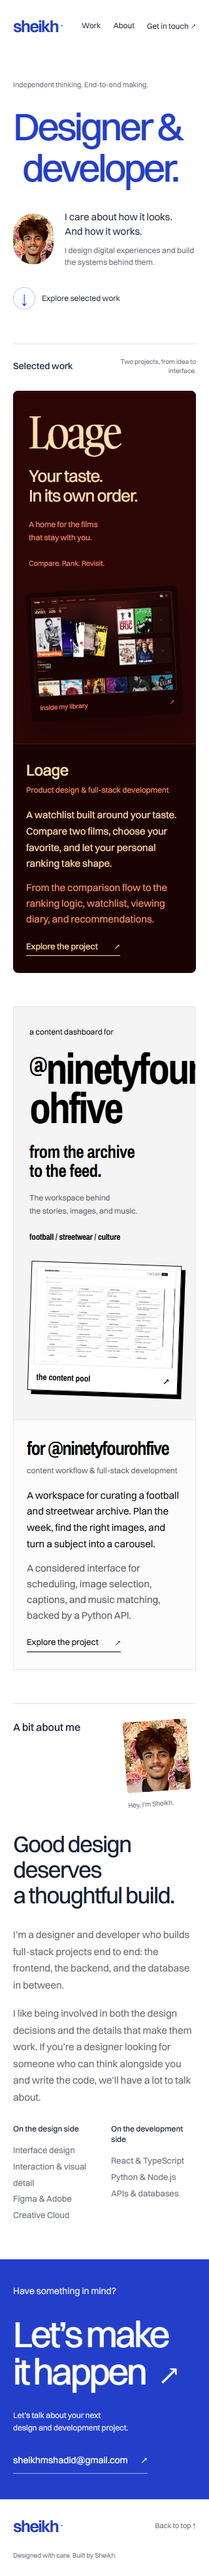
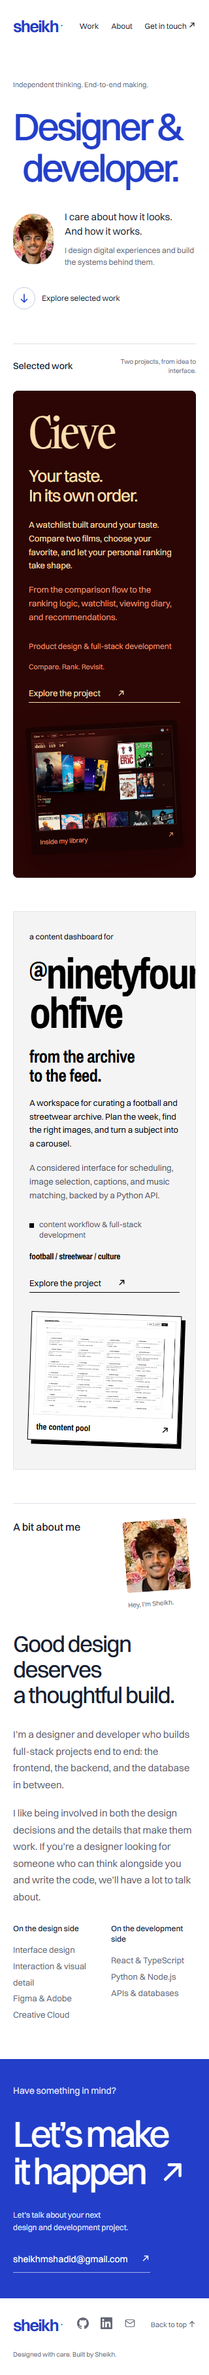
Rename Loage to Cieve and replace its screenshot with a fresh dark-mode capture

Changed region(s): [[0.0, 0.0, 1.0, 0.9981], [0.7188, 0.9669, 0.9375, 0.9981], [0.0625, 0.6238, 0.0938, 0.655]]

diff --git a/projects.css b/projects.css
@@ -1,21 +1,21 @@
 /* Project styles stay inside their respective cards. */
 @font-face{font-family:'Archivo Narrow';src:url('assets/ArchivoNarrow-Bold.ttf') format('truetype');font-weight:700;font-display:swap}
 @font-face{font-family:Gambarino;src:url('assets/Gambarino-Regular.woff2') format('woff2');font-weight:400;font-display:swap}
-.project.loage-project{--project-ground:#1a0403;--project-surface:#2b0605;--project-ink:#fedeae;--project-muted:#e99672;--project-border:rgb(254 222 174 / .12);background:var(--project-ground);color:var(--project-ink);border-radius:8px;overflow:hidden}
+.project.cieve-project{--project-ground:#1a0403;--project-surface:#2b0605;--project-ink:#fedeae;--project-muted:#e99672;--project-border:rgb(254 222 174 / .12);background:var(--project-ground);color:var(--project-ink);border-radius:8px;overflow:hidden}
 .project.studio-project{--project-ground:#fcfcfc;--project-surface:#fff;--project-ink:#000;--project-muted:#52525b;--project-border:#e4e4e7;background:var(--project-ground);color:var(--project-ink);border:1px solid var(--project-border);border-radius:0;overflow:hidden}
 .project-stage{display:grid;grid-template-columns:38% 62%;align-items:start;gap:32px;min-height:580px;padding:62px 48px;overflow:hidden}
-.loage-stage{background:#2b0605}
+.cieve-stage{background:#2b0605}
 .project-identity{position:relative;z-index:1;align-self:stretch;display:flex;flex-direction:column}
-.loage-wordmark{font-family:Gambarino,Georgia,serif;font-size:94px;font-weight:400;line-height:1;letter-spacing:-6px;margin:0 0 27px}
+.cieve-wordmark{font-family:Gambarino,Georgia,serif;font-size:94px;font-weight:400;line-height:1;letter-spacing:-6px;margin:0 0 27px}
 .project-statement{font-size:29px;font-weight:450;letter-spacing:-1px;line-height:1.18;margin:0 0 18px}
 .identity-description{font-size:15px;line-height:1.6;color:var(--project-ink);margin:0 0 14px;max-width:320px}
 .identity-footnote{font-size:11px;color:var(--project-muted);margin-top:20px}
 .project .project-shot{display:block;width:100%;position:relative;align-self:center;transition:transform .25s ease}
 .project .project-shot img{display:block;width:100%;height:auto;object-fit:contain;border:1px solid var(--project-border)}
-.loage-project .project-shot{transform:rotate(-3deg);border-radius:6px;background:#1a0403;box-shadow:0 22px 42px #1a040380;padding:8px}
-.loage-project .project-shot img{border-radius:3px}
+.cieve-project .project-shot{transform:rotate(-3deg);border-radius:6px;background:#1a0403;box-shadow:0 22px 42px #1a040380;padding:8px}
+.cieve-project .project-shot img{border-radius:3px}
 .shot-caption{display:flex;align-items:center;justify-content:space-between;gap:15px;font-size:11px;padding:12px 10px 6px;color:var(--project-muted)}
-.loage-project .project-shot:hover{transform:rotate(-1deg) translateY(-4px);text-decoration:none}
+.cieve-project .project-shot:hover{transform:rotate(-1deg) translateY(-4px);text-decoration:none}
 .studio-stage{background:#f4f4f5;grid-template-columns:36% 64%;padding-block:60px;gap:24px}
 .studio-intro{font-size:12px;margin:0 0 24px}
 .studio-wordmark{font-family:'Archivo Narrow','Arial Narrow',sans-serif;font-size:76px;font-weight:700;letter-spacing:-4px;line-height:.91;margin:0 0 30px}
@@ -30,6 +30,6 @@
 .project .text-link{border-color:var(--project-ink)}
 .studio-project .project-kind{text-transform:lowercase;position:relative;padding-left:15px}
 .studio-project .project-kind::before{content:"";position:absolute;left:0;top:6px;width:7px;height:7px;background:#000}
-@media(max-width:1050px){.project-stage{min-height:470px;padding:38px 30px;gap:26px;grid-template-columns:38% 62%}.loage-wordmark{font-size:75px}.project-statement{font-size:24px}.studio-wordmark{font-size:clamp(44px,5.7vw,60px);letter-spacing:-2px}.studio-project .project-statement{font-size:25px}.identity-description{font-size:13px}}
-@media(max-width:700px){.project-stage{display:flex;flex-direction:column;align-items:stretch;gap:32px;padding:30px 24px 40px;min-height:0}.loage-wordmark{font-size:66px;margin-bottom:19px;letter-spacing:-4px}.project-statement{font-size:26px}.identity-description{font-size:13px;max-width:none}.identity-footnote{margin-top:16px}.project .project-shot{width:100%;align-self:center}.studio-wordmark{font-size:66px;margin-bottom:22px;letter-spacing:-3px}.studio-intro{margin-bottom:18px}.studio-project .project-statement{font-size:27px}.studio-project .project-shot{box-shadow:6px 6px 0 #000}.shot-caption{font-size:10px;padding:10px 5px 4px}}
+@media(max-width:1050px){.project-stage{min-height:470px;padding:38px 30px;gap:26px;grid-template-columns:38% 62%}.cieve-wordmark{font-size:75px}.project-statement{font-size:24px}.studio-wordmark{font-size:clamp(44px,5.7vw,60px);letter-spacing:-2px}.studio-project .project-statement{font-size:25px}.identity-description{font-size:13px}}
+@media(max-width:700px){.project-stage{display:flex;flex-direction:column;align-items:stretch;gap:32px;padding:30px 24px 40px;min-height:0}.cieve-wordmark{font-size:66px;margin-bottom:19px;letter-spacing:-4px}.project-statement{font-size:26px}.identity-description{font-size:13px;max-width:none}.identity-footnote{margin-top:16px}.project .project-shot{width:100%;align-self:center}.studio-wordmark{font-size:66px;margin-bottom:22px;letter-spacing:-3px}.studio-intro{margin-bottom:18px}.studio-project .project-statement{font-size:27px}.studio-project .project-shot{box-shadow:6px 6px 0 #000}.shot-caption{font-size:10px;padding:10px 5px 4px}}
 @media(prefers-reduced-motion:reduce){.project .project-shot{transition:none}}

diff --git a/index.html b/index.html
@@ -3,7 +3,7 @@
 <head>
   <meta charset="UTF-8">
   <meta name="viewport" content="width=device-width, initial-scale=1">
-  <meta name="description" content="Sheikh is a designer and developer building thoughtful digital experiences from interface to implementation. Explore Loage and a content studio for @ninetyfourohfive.">
+  <meta name="description" content="Sheikh is a designer and developer building thoughtful digital experiences from interface to implementation. Explore Cieve and a content studio for @ninetyfourohfive.">
   <meta name="theme-color" content="#233fc9">
   <meta name="contentType" content="Landing">
   <title>Sheikh — Designer & Developer</title>
@@ -29,10 +29,10 @@
     </section>
     <section id="work" class="work wrap" aria-labelledby="work-title">
       <div class="section-heading"><h2 id="work-title">Selected work</h2><span>Two projects, from idea to interface.</span></div>
-      <article class="project loage-project">
-        <div class="project-stage loage-stage">
-          <div class="project-identity"><h3 class="loage-wordmark">Loage</h3><p class="project-statement">Your taste.<br>In its own order.</p><p class="identity-description">A watchlist built around your taste. Compare two films, choose your favorite, and let your personal ranking take shape.</p><p class="project-detail">From the comparison flow to the ranking logic, watchlist, viewing diary, and recommendations.</p><p class="project-kind">Product design &amp; full-stack development</p><span class="identity-footnote">Compare. Rank. Revisit.</span><a class="text-link" href="https://github.com/sheikhmshadid/loage" target="_blank" rel="noopener noreferrer">Explore the project <span aria-hidden="true"><svg width="1em" height="1em" viewBox="0 0 16 16" fill="none" focusable="false" style="display:inline-block;vertical-align:-0.08em"><path d="M4 12 12 4M6 4h6v6" stroke="currentColor" stroke-width="1.6" stroke-linecap="round" stroke-linejoin="round"/></svg></span></a></div>
-          <a class="project-shot" href="assets/loage-screenshot.png" target="_blank" rel="noopener" aria-label="Open full-size Loage screenshot"><img src="assets/loage-screenshot.png" alt="Loage running locally with Sheikh’s library, ranked films, watchlist, and recommendations" width="1440" height="1000" loading="lazy"><span class="shot-caption">Inside my library <span aria-hidden="true"><svg width="1em" height="1em" viewBox="0 0 16 16" fill="none" focusable="false" style="display:inline-block;vertical-align:-0.08em"><path d="M4 12 12 4M6 4h6v6" stroke="currentColor" stroke-width="1.6" stroke-linecap="round" stroke-linejoin="round"/></svg></span></span></a>
+      <article class="project cieve-project">
+        <div class="project-stage cieve-stage">
+          <div class="project-identity"><h3 class="cieve-wordmark">Cieve</h3><p class="project-statement">Your taste.<br>In its own order.</p><p class="identity-description">A watchlist built around your taste. Compare two films, choose your favorite, and let your personal ranking take shape.</p><p class="project-detail">From the comparison flow to the ranking logic, watchlist, viewing diary, and recommendations.</p><p class="project-kind">Product design &amp; full-stack development</p><span class="identity-footnote">Compare. Rank. Revisit.</span><a class="text-link" href="https://github.com/sheikhmshadid/cieve" target="_blank" rel="noopener noreferrer">Explore the project <span aria-hidden="true"><svg width="1em" height="1em" viewBox="0 0 16 16" fill="none" focusable="false" style="display:inline-block;vertical-align:-0.08em"><path d="M4 12 12 4M6 4h6v6" stroke="currentColor" stroke-width="1.6" stroke-linecap="round" stroke-linejoin="round"/></svg></span></a></div>
+          <a class="project-shot" href="assets/cieve-screenshot.png" target="_blank" rel="noopener" aria-label="Open full-size Cieve screenshot"><img src="assets/cieve-screenshot.png" alt="Cieve running locally with Sheikh’s library, ranked films, watchlist, and recommendations" width="1440" height="1000" loading="lazy"><span class="shot-caption">Inside my library <span aria-hidden="true"><svg width="1em" height="1em" viewBox="0 0 16 16" fill="none" focusable="false" style="display:inline-block;vertical-align:-0.08em"><path d="M4 12 12 4M6 4h6v6" stroke="currentColor" stroke-width="1.6" stroke-linecap="round" stroke-linejoin="round"/></svg></span></span></a>
         </div>
       </article>
       <article class="project studio-project">

diff --git a/README.md b/README.md
@@ -4,15 +4,15 @@ A self-contained, responsive portfolio. Open `index.html` directly, or serve thi
 
 All site files and assets live in this folder. The portrait is a copy of `2024Portfolio/images/pic01.jpg`; that portfolio was not used as a design reference. Switzer is self-hosted with its license in `assets/`.
 
-The project panels contain real screenshots captured from localhost on September 12, 2026. Loage shows Sheikh's signed-in library; the content dashboard shows its saved shared post pool. Click either screenshot to view it at full size. Project links point to the GitHub repositories. The contact link opens an email to sheikhmshadid@gmail.com for design and development inquiries.
+The project panels contain real screenshots captured from localhost on September 12, 2026 (Cieve re-captured in dark mode on September 13). Cieve shows Sheikh's signed-in library; the content dashboard shows its saved shared post pool. Click either screenshot to view it at full size. Project links point to the GitHub repositories. The contact link opens an email to sheikhmshadid@gmail.com for design and development inquiries.
 
 Browser checks live in `verify.cjs`. Run `node verify.cjs` with Playwright available, or pass the path to an existing Playwright installation as the first argument. `CHROME_PATH` can select an installed Chromium executable. The check creates full-page previews at four viewport widths and verifies screenshot links, scoped project palettes, navigation, images, and horizontal overflow.
 
 ## Design plan
 
-Audience: designers seeking a collaborator who can design and implement a complete product. Goal: explore two selected projects and get in touch. Content: introduction, Loage, content studio for @ninetyfourohfive, bio, contact.
+Audience: designers seeking a collaborator who can design and implement a complete product. Goal: explore two selected projects and get in touch. Content: introduction, Cieve, content studio for @ninetyfourohfive, bio, contact.
 
-The portfolio retains its white and blue palette and self-hosted Switzer. Project identities apply only within their own sections through `projects.css`: Loage uses its original dark burgundy #1A0403, peach #FEDEAE, secondary ink #E99672, Gambarino wordmark, and small radii; the content dashboard uses #FCFCFC, black, square edges, and its original Archivo Narrow heading face. Each card pairs a prominent project identity and short introduction with an angled, framed screenshot, followed by the project description. Mobile stacks the identity above the screenshot. Font licenses are in `assets/`. The hero, about, and contact sections retain their original styling.
+The portfolio retains its white and blue palette and self-hosted Switzer. Project identities apply only within their own sections through `projects.css`: Cieve uses its original dark burgundy #1A0403, peach #FEDEAE, secondary ink #E99672, Gambarino wordmark, and small radii; the content dashboard uses #FCFCFC, black, square edges, and its original Archivo Narrow heading face. Each card pairs a prominent project identity and short introduction with an angled, framed screenshot, followed by the project description. Mobile stacks the identity above the screenshot. Font licenses are in `assets/`. The hero, about, and contact sections retain their original styling.
 
 ## Local screenshot sessions
 
